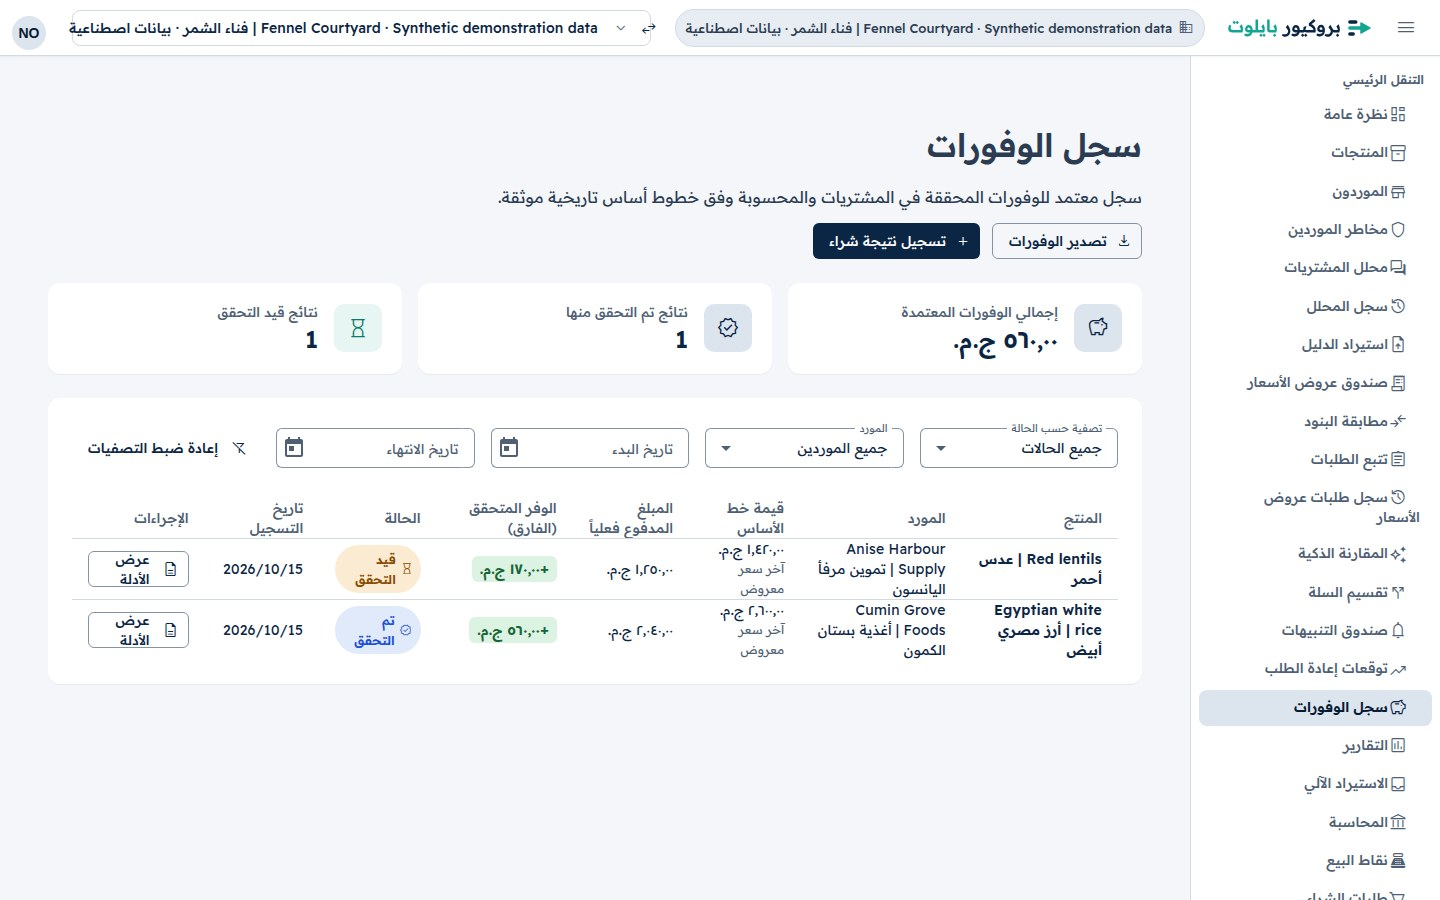
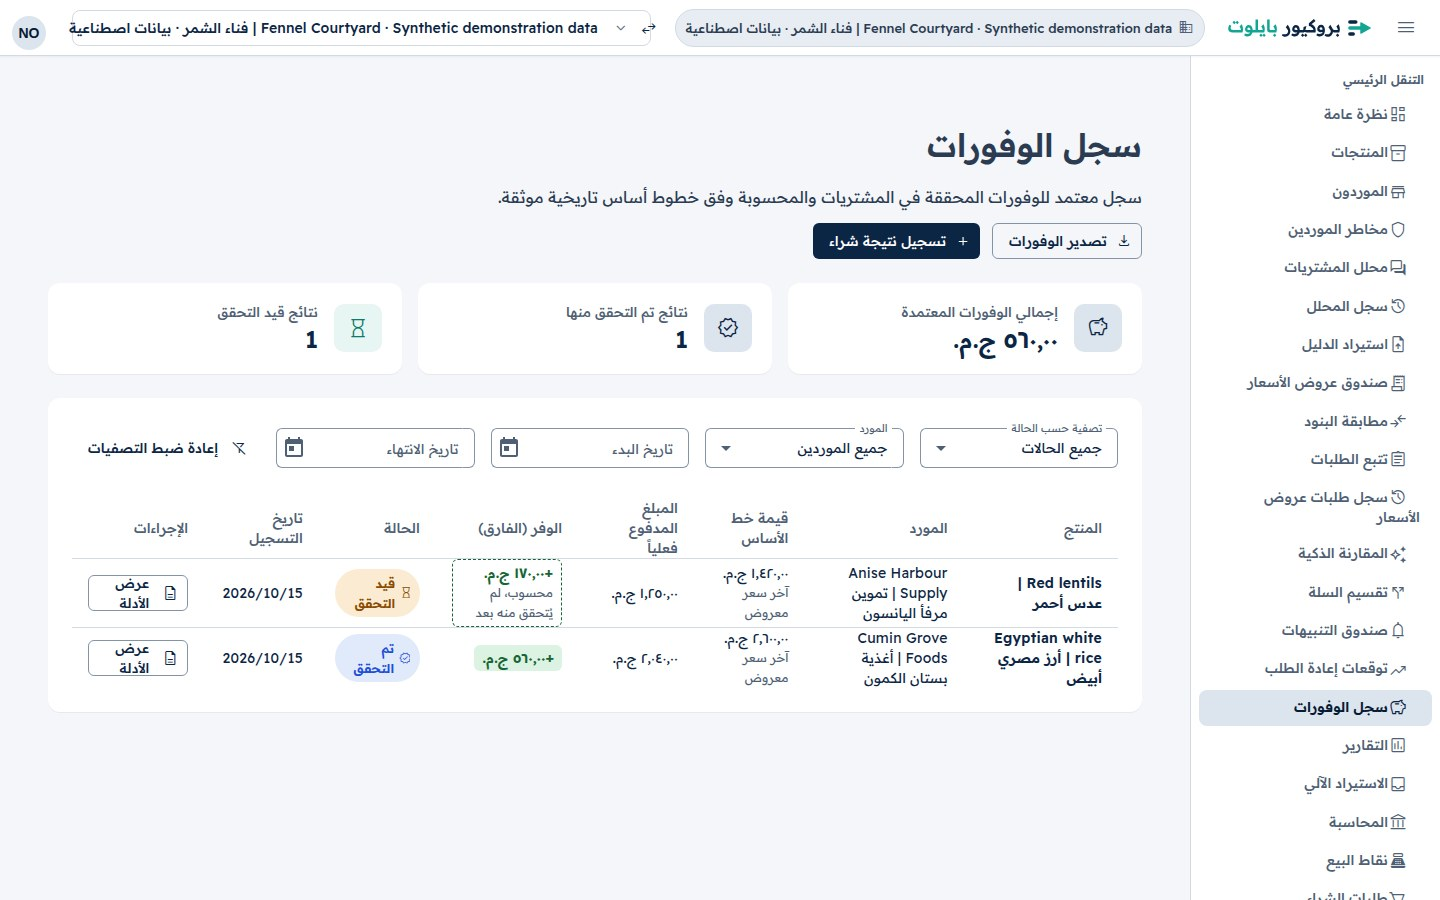
test(e2e): 2x hero crop of the Smart Compare recommendation, en + ar (PPS-45)
Adds hero-recommendation.jpg per locale from a separate 2x context, and
refreshes the gallery captures from hosted (the savings ledger now shows
the PPS-44 "Saving (Delta)" label).

diff --git a/apps/web/tests/e2e/landing-gallery-screenshots.spec.ts b/apps/web/tests/e2e/landing-gallery-screenshots.spec.ts
@@ -21,7 +21,8 @@
  * Repeated runs reuse deterministic tenant-scoped rows and overwrite the same Storage
  * object paths. Never delete/update audit events or verified savings.
  *
- * Writes exactly ten 1440x900 JPEGs (quality 88) under public/landing/{en,ar}/.
+ * Writes ten 1440x900 JPEGs plus two 2x hero recommendation crops (quality 88)
+ * under public/landing/{en,ar}/ (PPS-45 / P-20).
  * Without CAPTURE_LANDING_GALLERY=1 every test is skipped and no hosted work runs.
  * --list is always offline, with or without the opt-in.
  */
@@ -200,6 +201,19 @@ async function zoomDenseWorkspace(page: Page): Promise<void> {
   });
 }
 
+async function prepareSmartCompare(page: Page, locale: 'en' | 'ar'): Promise<void> {
+  await page.goto(`/offers/compare?product_id=${state.productId}&quantity=2`);
+  await expect(page.locator('.offers-table tr[mat-row]')).toHaveCount(3);
+  // Match the dense quotation workspace's page zoom, retaining all controls and columns.
+  await zoomDenseWorkspace(page);
+  await expect(page.locator('.recommendation-card')).toBeVisible();
+  await expect(page.locator('.evidence-chips')).toBeVisible();
+  await expect(page.locator('.quantity-field mat-hint')).toContainText(locale === 'ar' ? '٢٥' : '25');
+  await expect(page.locator('.cost-amount')).toContainText(locale === 'ar' ? '٢٬٠٤٠' : '2,040');
+  await expect(page.locator('.expired-row')).toHaveCount(0);
+  await expect(page.locator('.offers-table tr[mat-row]').last()).toBeInViewport({ ratio: 1 });
+}
+
 async function capture(page: Page, locale: 'en' | 'ar', name: string): Promise<void> {
   await settleGallery(page);
   await expect(page.locator('html')).toHaveAttribute('dir', locale === 'ar' ? 'rtl' : 'ltr');
@@ -226,7 +240,7 @@ test.describe('PPS-36 landing gallery: synthetic Cairo restaurant procurement', 
         await setOwnerLocale(locale, state.token);
         await page.clock.setFixedTime(new Date('2026-10-22T09:00:00Z'));
         // Restore the real API-issued session in memory. No password enters the browser,
-        // and ten captures do not require ten rate-limited login requests.
+        // and captures do not require repeated rate-limited login requests.
         await page.addInitScript(({ origin, accessToken, refreshToken }) => {
           if (location.origin === origin) {
             localStorage.setItem('pp.access_token', accessToken);
@@ -257,16 +271,7 @@ test.describe('PPS-36 landing gallery: synthetic Cairo restaurant procurement', 
       });
 
       test('02 smart compare: three offers, conversion and recommendation evidence', async ({ page }) => {
-        await page.goto(`/offers/compare?product_id=${state.productId}&quantity=2`);
-        await expect(page.locator('.offers-table tr[mat-row]')).toHaveCount(3);
-        // Match the dense quotation workspace's page zoom, retaining all controls and columns.
-        await zoomDenseWorkspace(page);
-        await expect(page.locator('.recommendation-card')).toBeVisible();
-        await expect(page.locator('.evidence-chips')).toBeVisible();
-        await expect(page.locator('.quantity-field mat-hint')).toContainText(locale === 'ar' ? '٢٥' : '25');
-        await expect(page.locator('.cost-amount')).toContainText(locale === 'ar' ? '٢٬٠٤٠' : '2,040');
-        await expect(page.locator('.expired-row')).toHaveCount(0);
-        await expect(page.locator('.offers-table tr[mat-row]').last()).toBeInViewport({ ratio: 1 });
+        await prepareSmartCompare(page, locale);
         await capture(page, locale, '02-smart-compare');
       });
 
@@ -306,6 +311,54 @@ test.describe('PPS-36 landing gallery: synthetic Cairo restaurant procurement', 
         await expect(page.locator(`a[href="/savings/${state.savingId}/evidence"]`)).toBeVisible();
         await expect(page.locator('.savings-table tr[mat-row]').last()).toBeInViewport({ ratio: 1 });
         await capture(page, locale, '05-savings-ledger');
+      });
+
+      test.describe('PPS-45 hero recommendation crop', () => {
+        // Each test gets a separate context/page. Only these two captures use 2x;
+        // existing gallery contexts retain their original setup.
+        test.use({ deviceScaleFactor: 2 });
+
+        test('hero-recommendation: padded Smart Compare card at 2x', async ({ page }) => {
+          await prepareSmartCompare(page, locale);
+          await settleGallery(page);
+          await expect(page.locator('html')).toHaveAttribute('dir', locale === 'ar' ? 'rtl' : 'ltr');
+          await expect(page.locator('html')).toHaveAttribute('lang', locale);
+          await expect(page.locator('.workspace-badge')).toContainText('Synthetic demonstration data');
+          await expect(page.locator('.workspace-badge')).toBeInViewport({ ratio: 1 });
+
+          // Stable selector from compare-recommendation.component.html, enclosing
+          // supplier, unit price, landed cost, purchase action and evidence chips.
+          const card = page.locator('app-compare-recommendation .recommendation-card');
+          await expect(card).toHaveCount(1);
+          await expect(card.locator('.supplier-title')).toBeVisible();
+          await expect(card.locator('.unit-price-sub')).toBeVisible();
+          await expect(card.locator('.record-purchase-btn')).toBeVisible();
+          await expect(card.locator('.evidence-chips')).toBeVisible();
+          await card.scrollIntoViewIfNeeded();
+          const bounds = await card.boundingBox();
+          if (!bounds) throw new Error('Recommendation card has no screenshot bounds');
+          const padding = 16; // CSS pixels: 32 output pixels at deviceScaleFactor 2.
+          const clip = {
+            x: Math.floor(bounds.x - padding),
+            y: Math.floor(bounds.y - padding),
+            width: Math.ceil(bounds.x + bounds.width + padding) - Math.floor(bounds.x - padding),
+            height: Math.ceil(bounds.y + bounds.height + padding) - Math.floor(bounds.y - padding),
+          };
+          // Fail rather than silently trim padding or card content.
+          const viewport = page.viewportSize();
+          if (!viewport) throw new Error('Hero capture requires a fixed viewport');
+          expect(clip.x).toBeGreaterThanOrEqual(0);
+          expect(clip.y).toBeGreaterThanOrEqual(0);
+          expect(clip.x + clip.width).toBeLessThanOrEqual(viewport.width);
+          expect(clip.y + clip.height).toBeLessThanOrEqual(viewport.height);
+          const directory = join(ROOT, 'apps/web/public/landing', locale);
+          mkdirSync(directory, { recursive: true });
+          // Locator-derived clip preserves the real surrounding 16px of UI.
+          await page.screenshot({
+            path: join(directory, 'hero-recommendation.jpg'),
+            type: 'jpeg', quality: 88, scale: 'device', clip, animations: 'disabled',
+          });
+        });
       });
     });
   }
